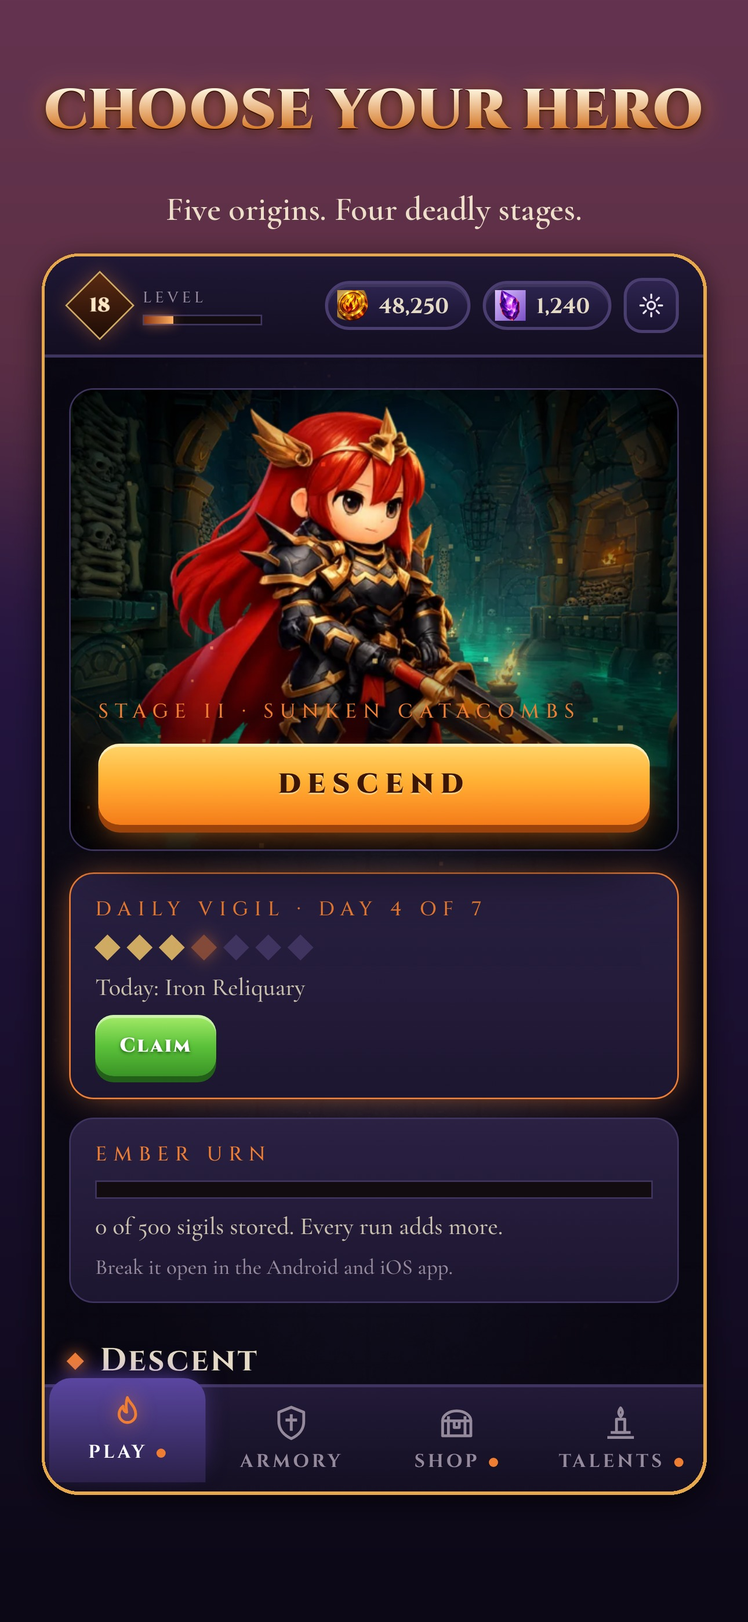
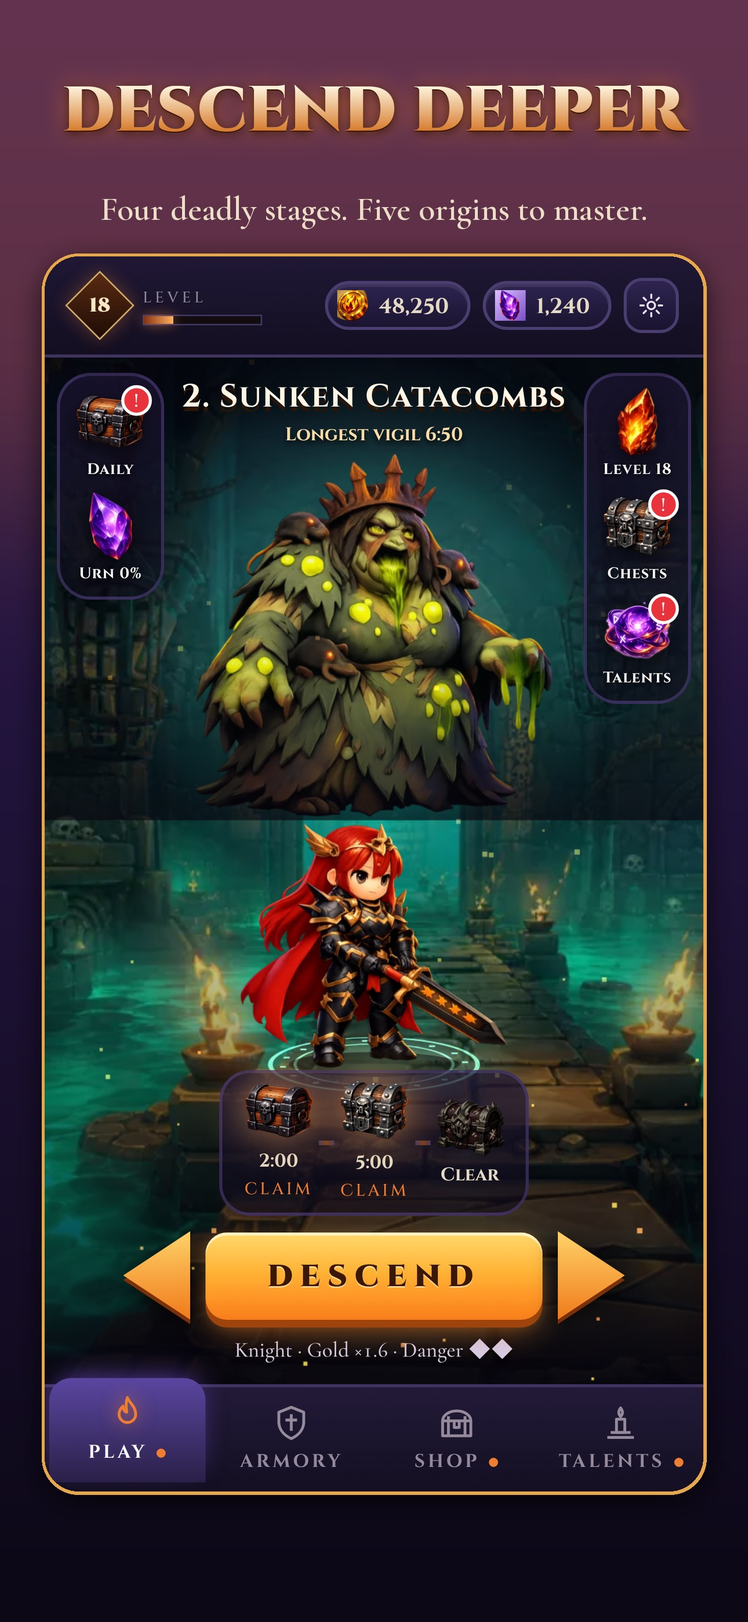
Rebuild the Play tab as a stage scene and move origins to the Armory
Stage art with the stage boss looming over your origin, side shortcuts
(daily, urn, level, chests, talents), milestone chests, stage arrows and
a big Descend button. Origins are chosen in the Armory. Fixes old saves
being shown the new-player tutorial.

Claude-Session: https://claude.ai/code/session_01Y7EHTCx1VVqY7PxuTGtBVF

diff --git a/ashen-vigil/index.html b/ashen-vigil/index.html
@@ -434,6 +434,45 @@ h1,h2,h3{font-family:var(--display);font-weight:700;margin:0;text-wrap:balance}
 @keyframes coachPulse{50%{box-shadow:0 8px 28px -6px rgba(0,0,0,.7),0 0 30px -2px rgba(255,180,80,.9)}}
 @media (max-width:560px){.coach{top:auto;bottom:calc(env(safe-area-inset-bottom,0px) + 190px);font-size:15px}}
 
+/* ---- play screen ---- */
+.hub-body.fullplay{padding:0;overflow:hidden}
+#tab-play.fight{position:relative;display:block;height:100%;min-height:500px;overflow:hidden}
+.fight #heroCv{position:absolute;inset:0;width:100%;height:100%;display:block}
+.fight-top{position:absolute;top:16px;left:0;right:0;text-align:center;pointer-events:none;padding-inline:90px}
+.fight-top h2{font-size:clamp(22px,4.6vw,36px);letter-spacing:.03em;color:#fff6e6;text-shadow:0 3px 0 #2a1406,0 0 20px rgba(0,0,0,.9)}
+.fight-top p{margin:2px 0 0;font-family:var(--display);font-weight:700;font-size:14px;color:#ffdca8;text-shadow:0 2px 4px #000}
+.side{position:absolute;top:16px;display:flex;flex-direction:column;gap:10px;padding:10px 6px;border-radius:22px;background:linear-gradient(180deg,rgba(30,22,52,.72),rgba(14,10,24,.55));border:2px solid rgba(90,70,140,.5)}
+.side.left{left:12px}.side.right{right:12px}
+.sbtn{position:relative;width:66px;display:flex;flex-direction:column;align-items:center;gap:2px;background:none;border:0;color:#fff;cursor:pointer;font-family:var(--display);font-weight:700;font-size:11px;letter-spacing:.04em;text-shadow:0 1px 3px #000;padding:0}
+.sbtn img{width:52px;height:52px;object-fit:contain;filter:drop-shadow(0 4px 6px rgba(0,0,0,.6));transition:transform .15s}
+.sbtn:hover img,.sbtn:focus-visible img{transform:scale(1.1)}
+.sbtn:focus-visible{outline:none}
+.sbtn .badge{position:absolute;top:-2px;right:2px;min-width:20px;height:20px;padding:0 4px;box-sizing:border-box;border-radius:10px;background:#e8323c;color:#fff;font-family:var(--body);font-weight:700;font-size:13px;display:grid;place-items:center;border:2px solid #fff;text-shadow:none}
+.fight-bottom{position:absolute;left:0;right:0;bottom:14px;display:flex;flex-direction:column;align-items:center;gap:10px;padding-inline:12px}
+.fight-bottom .startrow{display:flex;align-items:center;gap:16px}
+.fight #heroBegin{font-size:22px;padding:16px 60px;flex:none}
+.fight #heroBegin:disabled{background:linear-gradient(180deg,#6a6278,#3a3448);box-shadow:0 5px 0 #24202e;color:#cfc8dc;animation:none;cursor:not-allowed}
+.arrow{width:44px;height:58px;border:0;background:none;cursor:pointer;padding:0;filter:drop-shadow(0 3px 0 #7a3008) drop-shadow(0 4px 8px rgba(0,0,0,.6))}
+.arrow::before{content:"";display:block;width:100%;height:100%;background:linear-gradient(180deg,#ffd36a,#f07a1a);clip-path:polygon(100% 0,0 50%,100% 100%)}
+.arrow.next::before{clip-path:polygon(0 0,100% 50%,0 100%)}
+.arrow:disabled{opacity:.25;cursor:default}
+.arrow:focus-visible{outline:2px solid #ffc04a;outline-offset:4px}
+.fight .record{color:#d6cce8;text-shadow:0 1px 3px #000;font-size:14px}
+.fight .miles{width:min(440px,100%);padding:6px 14px;border-radius:20px;background:linear-gradient(180deg,rgba(30,22,52,.75),rgba(14,10,24,.65));border:2px solid rgba(90,70,140,.5);box-sizing:border-box}
+.fight .mile img{width:58px}
+.fight .mile b{font-size:13px}
+.fight .mile span{font-size:11px}
+.ddays{display:grid;grid-template-columns:repeat(7,minmax(0,1fr));gap:8px}
+.dday{display:flex;flex-direction:column;gap:4px;padding:10px 8px;border-radius:14px;background:linear-gradient(180deg,#2a2143,#1d1630);border:2px solid #3f3460;text-align:center;font-size:14px;min-width:0}
+.dday span{font-family:var(--display);font-size:11px;letter-spacing:.12em;text-transform:uppercase;color:var(--ash)}
+.dday b{font-weight:600;line-height:1.2}
+.dday.got{opacity:.5}
+.dday.got span::after{content:" \2713";color:#8ae05a}
+.dday.now{border-color:#ffc04a;box-shadow:0 0 18px -4px rgba(255,180,80,.8)}
+.cls .chosen{align-self:flex-start;font-family:var(--display);font-size:11px;letter-spacing:.16em;text-transform:uppercase;color:#ffc04a}
+@media (max-width:760px){.ddays{grid-template-columns:repeat(4,minmax(0,1fr))}}
+@media (max-width:560px){.fight-top{padding-inline:84px;top:12px}.fight-top h2{font-size:21px}.fight-top p{font-size:12px}.side{top:10px;gap:8px;padding:8px 4px}.side.left{left:8px}.side.right{right:8px}.sbtn{width:58px;font-size:10px}.sbtn img{width:44px;height:44px}.fight #heroBegin{padding:15px 40px;font-size:20px}.fight-bottom .startrow{gap:10px}.fight .mile img{width:44px}.fight .mile b{font-size:12px}.fight .miles{padding:4px 10px}.ddays{grid-template-columns:repeat(2,minmax(0,1fr))}}
+
 @media (max-width:820px){.slots{grid-template-columns:repeat(2,minmax(0,1fr))}.chests{grid-template-columns:1fr}.chestcard{flex-direction:row;flex-wrap:wrap;text-align:left;align-items:center}.chestcard>.ctext{flex:1;min-width:160px}.chestcard .odds{justify-content:flex-start}.brand{letter-spacing:.08em}}
 @media (max-width:400px){.coin{font-size:13px;padding:4px 7px}.brand{font-size:15px}}
 
@@ -478,29 +517,23 @@ h1,h2,h3{font-family:var(--display);font-weight:700;margin:0;text-wrap:balance}
       </div>
     </header>
     <main class="hub-body">
-      <section id="tab-play" class="tab">
-        <div class="hero"><canvas id="heroCv" aria-label="Your origin keeping vigil by the flame"></canvas><div class="hero-cap"><div class="hero-txt"><div class="eyebrow" id="heroStage"></div><p class="tagline">The last flame gutters below the cathedral. Hold it against the hollowed dead until the third bell tolls.</p></div><button id="heroBegin" class="btn">Descend</button></div></div>
-        <div id="bounties" class="bounties"></div>
-        <div class="sect-h"><h2>Descent</h2><span class="muted">Deeper stages are deadlier and pay more gold.</span></div>
-        <div id="stages" class="stages"></div>
-        <div id="stageMiles"></div>
-        <div class="sect-h"><h2>Origin</h2><span class="muted">Unlock more origins with gold.</span></div>
-        <div id="classes" class="classes"></div>
-        <div class="descend"><button id="beginBtn" class="btn">Descend</button><div id="record" class="record"></div></div>
-        <details class="howto"><summary>Controls</summary>
-          <div class="controls">
-            <span><kbd>WASD</kbd> / <kbd>Arrows</kbd></span><span>Move. Your armaments strike on their own.</span>
-            <span><kbd>Space</kbd> / <kbd>Shift</kbd></span><span>Roll through danger. Costs stamina.</span>
-            <span><kbd>Q</kbd> / <kbd>E</kbd></span><span>Drink a tonic flask. Candle shrines refill them.</span>
-            <span><kbd>Esc</kbd> · <kbd>M</kbd></span><span>Pause · Sound</span>
-            <span>Touch</span><span>Drag anywhere to move. Buttons roll and drink.</span>
-          </div>
-        </details>
+      <section id="tab-play" class="tab fight">
+        <canvas id="heroCv" aria-label="Your origin before the stage boss"></canvas>
+        <div class="fight-top"><h2 id="stageTitle"></h2><p id="stageBest"></p></div>
+        <div class="side left" id="sideL"></div>
+        <div class="side right" id="sideR"></div>
+        <div class="fight-bottom">
+          <div id="stageMiles"></div>
+          <div class="startrow"><button class="arrow prev" id="stPrev" aria-label="Previous stage"></button><button id="heroBegin" class="btn">Descend</button><button class="arrow next" id="stNext" aria-label="Next stage"></button></div>
+          <div id="record" class="record"></div>
+        </div>
       </section>
       <section id="tab-armory" class="tab" hidden>
         <div class="sect-h"><h2>Equipped</h2><span class="muted">Gear applies to every origin.</span></div>
         <div class="doll"><div class="doll-col" id="dollL"></div><div class="doll-mid"><img id="dollImg" alt="Your origin"><div class="doll-name" id="dollName"></div></div><div class="doll-col" id="dollR"></div></div>
         <div id="dollStats" class="dstats"></div>
+        <div class="sect-h"><h2>Origins</h2><span class="muted">Choose who keeps the vigil. Unlock more with gold.</span></div>
+        <div id="classes" class="classes"></div>
         <div class="sect-h"><h2>Armory <span id="invCount" class="muted"></span></h2><div class="row"><button id="mergeBtn" class="btn ghost">Merge gear</button><button id="salvageCommons" class="btn ghost">Salvage spare commons</button></div></div>
         <div id="inv" class="inv"></div>
       </section>
@@ -2566,7 +2599,7 @@ function heroStart() {
   const loop = now => { if ($('hub').hidden || hubTab !== 'play' || document.hidden) { hero.raf = 0; return; } drawHero(now / 1000); hero.raf = requestAnimationFrame(loop); };
   hero.raf = requestAnimationFrame(loop);
 }
-function drawHero(t) {
+function drawHeroVector(t) {
   const cv = $('heroCv'); if (!cv) return;
   const k = Math.min(2, window.devicePixelRatio || 1), w = cv.clientWidth, h = cv.clientHeight; if (!w || !h) return;
   if (cv.width !== Math.round(w * k) || cv.height !== Math.round(h * k)) { cv.width = Math.round(w * k); cv.height = Math.round(h * k); }
@@ -2653,7 +2686,7 @@ function migrateSave() {
   SAVE.claims = Object.assign({ wood: 0, iron: 0, ember: 0 }, SAVE.claims || {});
   SAVE.pity = Object.assign({ wood: 0, iron: 0, ember: 0, emberL: 0 }, SAVE.pity || {});
   SAVE.daily = Object.assign({ last: '', n: 0 }, SAVE.daily || {});
-  if (!SAVE.tut) SAVE.tut = SAVE.runs > 2 ? { move: 1, embers: 1, roll: 1, flask: 1, shrine: 1, boss: 1, boon: 1, hub: 1 } : {};
+  if (!SAVE.tut || (!Object.keys(SAVE.tut).length && SAVE.runs > 2)) SAVE.tut = SAVE.runs > 2 ? { move: 1, embers: 1, roll: 1, flask: 1, shrine: 1, boss: 1, boon: 1, hub: 1 } : {};
   SAVE.miles = SAVE.miles || {}; SAVE.talM = SAVE.talM || [false, false, false, false]; SAVE.tal = SAVE.tal || 0; SAVE.urn = SAVE.urn || 0;
   if (SAVE.ironClaims) { SAVE.claims.iron += SAVE.ironClaims; SAVE.ironClaims = 0; }
   if (!SAVE.migrated2) {
@@ -2762,6 +2795,7 @@ function slotCard(s) { const it = itemById(SAVE.equipped[s]); return it ? itemCa
 function renderArmory() {
   $('dollL').innerHTML = slotCard('helm') + slotCard('armor');
   $('dollR').innerHTML = slotCard('ring') + slotCard('charm');
+  renderOrigins();
   $('dollImg').src = bigPortrait(SAVE.cls); $('dollName').textContent = CLASSES[SAVE.cls].name;
   const m = metaMods(), c = CLASSES[SAVE.cls];
   const stats = [['Health', Math.round(c.hp + m.hp)], ['Damage', '+' + Math.round((c.might * (1 + m.might) - 1) * 100) + '%'], ['Armor', c.armor + m.armor],
@@ -2853,33 +2887,6 @@ function openTalent(kind, i) {
 }
 
 /* play tab: daily vigil, ember urn, stage rewards */
-function renderBounties() {
-  const ready = dailyReady(), shown = ready ? SAVE.daily.n % 7 : (SAVE.daily.n - 1 + 7) % 7;
-  const pips = DAILY.map((d, k) => `<i class="${k < shown || (k === shown && !ready) ? 'got' : k === shown ? 'now' : ''}" title="Day ${k + 1}: ${rewardLine(d)}"></i>`).join('');
-  const pr = Platform.prices[URN.sku];
-  $('bounties').innerHTML = `<div class="bcard${ready ? ' hot' : ''}"><div class="eyebrow">Daily vigil · Day ${shown + 1} of 7</div><div class="dpips">${pips}</div>
-      <p>${ready ? 'Today: ' + rewardLine(DAILY[shown]) : 'Claimed. Tomorrow: ' + rewardLine(DAILY[(shown + 1) % 7]) + '.'}</p>${ready ? '<button class="buy" id="dailyBtn">Claim</button>' : ''}</div>
-    <div class="bcard"><div class="eyebrow">Ember urn</div><div class="urnbar"><i style="width:${Math.min(100, SAVE.urn / URN.cap * 100)}%"></i></div>
-      <p>${fmtNum(SAVE.urn)} of ${URN.cap} sigils stored. Every run adds more.</p>
-      ${Platform.canBuy() && pr ? `<button class="buy" id="urnBtn" ${SAVE.urn ? '' : 'disabled'}>Break it open · ${pr.priceString}</button>` : '<span class="muted" style="font-size:14px">Break it open in the Android and iOS app.</span>'}</div>`;
-  const db = $('dailyBtn');
-  if (db) db.onclick = () => { if (!dailyReady()) return; const r = DAILY[SAVE.daily.n % 7]; giveReward(r); SAVE.daily.n++; SAVE.daily.last = todayKey(); persist(); renderHub(); SND.init(); SND.chest(); toast('Claimed ' + rewardLine(r) + '.'); };
-  const ub = $('urnBtn');
-  if (ub) ub.onclick = async () => { ub.disabled = true; try { await Platform.purchase(URN.sku); const n = SAVE.urn; SAVE.sigils += n; SAVE.urn = 0; persist(); renderHub(); toast(fmtNum(n) + ' sigils added.'); } catch (e) { toast(e && e.userCancelled ? 'Purchase cancelled.' : 'Purchase not completed.'); ub.disabled = false; } };
-}
-function renderStageMiles() {
-  const i = SAVE.stage, st = STAGES[i], S = milesState(i);
-  $('stageMiles').innerHTML = `<div class="sect-h"><h2>Stage rewards</h2><span class="muted">${st.name}: survive or clear it to earn these chests.</span></div>
-    <div class="miles">${S.map((s, k) => `<button class="mile ${s.claimed ? 'claimed' : s.reached ? 'ready' : 'locked'}" data-k="${k}"><img src="${chestArt(s.m.art, s.claimed)}" alt=""><b>${s.m.label}</b><span>${s.claimed ? 'Claimed' : s.reached ? 'Claim' : rewardLine(s.m.give(st))}</span></button>`).join('<i class="mline"></i>')}</div>`;
-  $('stageMiles').querySelectorAll('.mile').forEach(b => b.onclick = () => {
-    const k = +b.dataset.k, s = milesState(i)[k];
-    if (s.claimed) return;
-    if (!s.reached) { toast(s.m.t === 'clear' ? 'Defeat the third boss of ' + st.name + ' to earn this.' : 'Survive ' + s.m.label + ' in ' + st.name + ' to earn this.'); return; }
-    const r = s.m.give(st); SAVE.miles[st.id] = SAVE.miles[st.id] || [false, false, false]; SAVE.miles[st.id][k] = true;
-    giveReward(r); persist(); renderHub(); SND.init(); SND.chest(); toast('Claimed ' + rewardLine(r) + '.');
-  });
-}
-
 /* ---------------- First-run tutorial ---------------- */
 const TUTS = { moved: 0, rolled: false, drank: false, cur: null, shown: 0 };
 const TUT_STEPS = [
@@ -2940,39 +2947,127 @@ function renderHub() {
     b.innerHTML = TAB_ICONS[b.dataset.tab] + '<span>' + TAB_LABELS[b.dataset.tab] + (tabDot(b.dataset.tab) ? '<span class="dot" aria-label="Something to claim"></span>' : '') + '</span>';
   });
   for (const t of ['play', 'armory', 'shop', 'altar']) $('tab-' + t).hidden = t !== hubTab;
+  $('hub').querySelector('.hub-body').classList.toggle('fullplay', hubTab === 'play');
   ({ play: renderPlay, armory: renderArmory, shop: renderShop, altar: renderAltar })[hubTab]();
 }
 document.querySelectorAll('.tabbar button').forEach(b => b.addEventListener('click', () => { hubTab = b.dataset.tab; renderHub(); $('hub').querySelector('.hub-body').scrollTop = 0; }));
 
+/* ---------------- Play screen: stage scene ---------------- */
+let viewStage = null;
+const STAGE_BOSS = ['gaoler', 'mother', 'warden', 'warden'];
+function drawHero(t) {
+  const cv = $('heroCv'); if (!cv) return;
+  const vi = viewStage == null ? SAVE.stage : viewStage, st = STAGES[vi];
+  const bgI = IMG['stage_' + st.id], hsI = IMG['hero_' + SAVE.cls], bsI = IMG['boss_' + STAGE_BOSS[vi]];
+  if (!bgI || !hsI) return drawHeroVector(t);
+  const k = Math.min(2, window.devicePixelRatio || 1), w = cv.clientWidth, h = cv.clientHeight; if (!w || !h) return;
+  if (cv.width !== Math.round(w * k) || cv.height !== Math.round(h * k)) { cv.width = Math.round(w * k); cv.height = Math.round(h * k); }
+  const c = cv.getContext('2d'); c.setTransform(k, 0, 0, k, 0, 0);
+  const locked = vi >= SAVE.unlocked, gc = st.glow;
+  const sc = Math.max(w / bgI.width, h / bgI.height) * 1.06, drift = Math.sin(t * 0.12) * w * 0.02;
+  c.drawImage(bgI, (w - bgI.width * sc) / 2 + drift, (h - bgI.height * sc) * 0.35, bgI.width * sc, bgI.height * sc);
+  const shade = c.createLinearGradient(0, 0, 0, h);
+  shade.addColorStop(0, 'rgba(8,5,14,0.7)'); shade.addColorStop(0.25, 'rgba(8,5,14,0.2)'); shade.addColorStop(0.6, 'rgba(8,5,14,0.25)'); shade.addColorStop(1, 'rgba(8,5,14,0.92)');
+  c.fillStyle = shade; c.fillRect(0, 0, w, h);
+  const cx = w / 2, unit = Math.min(h, w * 1.25);
+  if (bsI) {
+    const bh = unit * 0.44, bw = bsI.width / bsI.height * bh, by = h * 0.1 + Math.sin(t * 0.8) * 4;
+    c.globalCompositeOperation = 'lighter'; glowAt(c, cx, by + bh * 0.45, bh * 0.75, gc, 0.35); c.globalCompositeOperation = 'source-over';
+    c.save(); c.globalAlpha = locked ? 0.35 : 0.95; c.drawImage(bsI, cx - bw / 2, by, bw, bh); c.restore();
+    const fade = c.createLinearGradient(0, by + bh * 0.55, 0, by + bh); fade.addColorStop(0, 'rgba(8,5,14,0)'); fade.addColorStop(1, 'rgba(8,5,14,0.65)');
+    c.fillStyle = fade; c.fillRect(cx - bw, by + bh * 0.55, bw * 2, bh * 0.46);
+  }
+  const pm = $('stageMiles'), panelTop = pm ? pm.getBoundingClientRect().top - cv.getBoundingClientRect().top : h * 0.75;
+  const fy = Math.min(h * 0.71, panelTop - 4), hh = Math.min(unit * 0.3, fy * 0.42), hw = hsI.width / hsI.height * hh;
+  c.save(); c.translate(cx, fy); c.scale(1, 0.26);
+  c.globalCompositeOperation = 'lighter';
+  const ring = c.createRadialGradient(0, 0, 0, 0, 0, hh * 0.6); ring.addColorStop(0, `rgba(${gc},0.45)`); ring.addColorStop(1, `rgba(${gc},0)`);
+  c.fillStyle = ring; c.beginPath(); c.arc(0, 0, hh * 0.6, 0, TAU); c.fill();
+  c.strokeStyle = `rgba(${gc},0.85)`; c.lineWidth = 3; c.beginPath(); c.arc(0, 0, hh * 0.42, 0, TAU); c.stroke();
+  c.lineWidth = 2; c.beginPath(); c.arc(0, 0, hh * 0.32, 0, TAU); c.stroke();
+  for (let i = 0; i < 16; i++) { const a = i / 16 * TAU + t * 0.4; c.fillStyle = `rgba(${gc},0.9)`; c.fillRect(Math.cos(a) * hh * 0.37 - 2, Math.sin(a) * hh * 0.37 - 2, 4, 4); }
+  c.restore();
+  c.fillStyle = 'rgba(0,0,0,0.5)'; c.beginPath(); c.ellipse(cx, fy, hw * 0.32, hh * 0.05, 0, 0, TAU); c.fill();
+  c.save(); c.translate(cx, fy + 2); c.scale(1, 1 + Math.sin(t * 2) * 0.01); c.drawImage(hsI, -hw / 2, -hh, hw, hh); c.restore();
+  c.globalCompositeOperation = 'lighter';
+  for (let i = 0; i < 60; i++) { const life = (t * (0.1 + hash(i, 2) * 0.2) + hash(i, 1)) % 1, ex = hash(i, 3) * w + Math.sin(t + i) * 14, ey = h - life * h * 1.1;
+    c.fillStyle = `rgba(255,${150 + Math.floor(hash(i, 4) * 80)},80,${(1 - life) * 0.85})`; const sz = 1.4 + hash(i, 5) * 2.2; c.fillRect(ex, ey, sz, sz); }
+  c.globalCompositeOperation = 'source-over';
+  if (locked) { c.fillStyle = 'rgba(12,9,20,0.55)'; c.fillRect(0, 0, w, h); }
+}
+function sideSrc(n) { if (IMG[n]) return assetUrl(n); if (n.startsWith('chest_')) return chestArt(n.split('_')[1], false); return portrait(SAVE.cls); }
+function sideBtn(id, img, label, badge) {
+  return `<button class="sbtn" id="${id}"><img src="${sideSrc(img)}" alt="">${badge ? `<span class="badge">${badge === true ? '!' : badge}</span>` : ''}<span>${label}</span></button>`;
+}
+function renderSide() {
+  const freeReady = Date.now() >= SAVE.freeChestAt, claims = claimsCount();
+  $('sideL').innerHTML = sideBtn('sbDaily', 'chest_wood_0', 'Daily', dailyReady()) + sideBtn('sbUrn', 'cur_sigil', 'Urn ' + Math.round(SAVE.urn / URN.cap * 100) + '%', SAVE.urn >= URN.cap);
+  $('sideR').innerHTML = sideBtn('sbPath', 'cur_ember', 'Level ' + SAVE.plv, false) + sideBtn('sbFree', 'chest_iron_0', 'Chests', claims ? claims : freeReady) + sideBtn('sbTal', 'icon_p_attunement', 'Talents', talAvailable() != null);
+  $('sbDaily').onclick = openDaily; $('sbUrn').onclick = openUrn; $('sbPath').onclick = openPath;
+  $('sbFree').onclick = () => { hubTab = 'shop'; renderHub(); };
+  $('sbTal').onclick = () => { hubTab = 'altar'; renderHub(); };
+}
 function renderPlay() {
   if (!SAVE.origins.includes(SAVE.cls)) SAVE.cls = 'knight';
   if (SAVE.stage >= SAVE.unlocked) SAVE.stage = 0;
-  $('stages').innerHTML = STAGES.map((s, i) => {
-    const locked = i >= SAVE.unlocked, best = SAVE.best[s.id];
-    return `<button class="stage${locked ? ' locked' : ''}" data-i="${i}" aria-pressed="${i === SAVE.stage}" style="--hue:${s.hue}">
-      <img class="thumb" src="${stageThumb(i)}" alt=""><span class="sbody"><span class="eyebrow">Stage ${ROMAN[i]}${SAVE.cleared[s.id] ? ' · Cleared' : ''}</span><h3>${s.name}</h3><p>${s.sub}</p>
-      <span class="pips" aria-label="Danger ${i + 1} of 4">${'<i></i>'.repeat(i + 1)}${'<i class="off"></i>'.repeat(3 - i)}</span>
-      <span class="meta">${locked ? 'Clear ' + STAGES[i - 1].name + ' to unlock' : (best ? 'Longest vigil ' + fmtTime(best) : 'Not yet attempted') + ' · Gold ×' + s.gold}</span></span></button>`;
-  }).join('');
-  $('stages').querySelectorAll('.stage').forEach(b => b.addEventListener('click', () => {
-    const i = +b.dataset.i; if (i >= SAVE.unlocked) { toast('Clear ' + STAGES[i - 1].name + ' first.'); return; }
-    SAVE.stage = i; persist(); renderPlay();
-  }));
+  if (viewStage == null || viewStage >= STAGES.length) viewStage = SAVE.stage;
+  const st = STAGES[viewStage], locked = viewStage >= SAVE.unlocked, best = SAVE.best[st.id];
+  $('stageTitle').textContent = (viewStage + 1) + '. ' + st.name;
+  $('stageBest').textContent = locked ? 'Clear ' + STAGES[viewStage - 1].name + ' to unlock' : (best ? 'Longest vigil ' + fmtTime(best) : 'Not yet attempted') + (SAVE.cleared[st.id] ? ' · Cleared' : '');
+  $('stPrev').disabled = viewStage <= 0; $('stNext').disabled = viewStage >= STAGES.length - 1;
+  const hb = $('heroBegin'); hb.disabled = locked; hb.textContent = locked ? 'Locked' : 'Descend';
+  $('record').textContent = CLASSES[SAVE.cls].name + ' · Gold ×' + st.gold + ' · Danger ' + '◆'.repeat(viewStage + 1);
+  if (!locked && SAVE.stage !== viewStage) { SAVE.stage = viewStage; persist(); }
+  renderSide(); renderStageMiles(); heroStart();
+}
+$('stPrev').addEventListener('click', () => { if (viewStage > 0) { viewStage--; renderPlay(); } });
+$('stNext').addEventListener('click', () => { if (viewStage < STAGES.length - 1) { viewStage++; renderPlay(); } });
+function renderStageMiles() {
+  const i = viewStage == null ? SAVE.stage : viewStage, st = STAGES[i], S = milesState(i);
+  $('stageMiles').innerHTML = `<div class="miles">${S.map((s, k) => `<button class="mile ${s.claimed ? 'claimed' : s.reached ? 'ready' : 'locked'}" data-k="${k}" title="${rewardLine(s.m.give(st))}"><img src="${chestArt(s.m.art, s.claimed)}" alt=""><b>${s.m.label}</b>${s.reached && !s.claimed ? '<span>Claim</span>' : ''}</button>`).join('<i class="mline"></i>')}</div>`;
+  $('stageMiles').querySelectorAll('.mile').forEach(b => b.onclick = () => {
+    const k = +b.dataset.k, s = milesState(i)[k];
+    if (s.claimed) { toast('Already claimed.'); return; }
+    if (!s.reached) { toast((s.m.t === 'clear' ? 'Defeat the third boss of ' + st.name : 'Survive ' + s.m.label + ' in ' + st.name) + ' to earn ' + rewardLine(s.m.give(st)) + '.'); return; }
+    const r = s.m.give(st); SAVE.miles[st.id] = SAVE.miles[st.id] || [false, false, false]; SAVE.miles[st.id][k] = true;
+    giveReward(r); persist(); renderHub(); SND.init(); SND.chest(); toast('Claimed ' + rewardLine(r) + '.');
+  });
+}
+function openDaily() {
+  const ready = dailyReady(), shown = ready ? SAVE.daily.n % 7 : (SAVE.daily.n - 1 + 7) % 7;
+  const days = DAILY.map((d, k) => `<div class="dday ${k < shown || (k === shown && !ready) ? 'got' : k === shown ? 'now' : ''}"><span>Day ${k + 1}</span><b>${rewardLine(d)}</b></div>`).join('');
+  openModal(`<div class="eyebrow">Daily vigil</div><h2>Day ${shown + 1} of 7</h2><div class="ddays">${days}</div>
+    <p class="muted">Claim once a day. Missing a day never resets your progress.</p>
+    <div class="row">${ready ? '<button class="buy" id="dailyBtn">Claim ' + rewardLine(DAILY[shown]) + '</button>' : ''}<button class="btn ghost" id="mClose">Close</button></div>`, m => {
+    m.querySelector('#mClose').onclick = closeModal;
+    const b = m.querySelector('#dailyBtn');
+    if (b) b.onclick = () => { if (!dailyReady()) return; const r = DAILY[SAVE.daily.n % 7]; giveReward(r); SAVE.daily.n++; SAVE.daily.last = todayKey(); persist(); closeModal(); renderHub(); SND.init(); SND.chest(); toast('Claimed ' + rewardLine(r) + '.'); };
+  }, true);
+}
+function openUrn() {
+  const pr = Platform.prices[URN.sku], can = Platform.canBuy() && pr;
+  openModal(`<div class="eyebrow">Ember urn</div><h2>${fmtNum(SAVE.urn)} of ${URN.cap} sigils</h2>
+    <div class="urnbar"><i style="width:${Math.min(100, SAVE.urn / URN.cap * 100)}%"></i></div>
+    <p class="muted">Every run pours sigils into the urn: some for kills, more for bosses and victories. Break it open to claim them all at once.</p>
+    <div class="row">${can ? `<button class="buy" id="urnBtn" ${SAVE.urn ? '' : 'disabled'}>Break it open · ${pr.priceString}</button>` : '<span class="note" style="font-size:15px">Break it open in the Android and iOS app.</span>'}<button class="btn ghost" id="mClose">Close</button></div>`, m => {
+    m.querySelector('#mClose').onclick = closeModal;
+    const ub = m.querySelector('#urnBtn');
+    if (ub) ub.onclick = async () => { ub.disabled = true; try { await Platform.purchase(URN.sku); const n = SAVE.urn; SAVE.sigils += n; SAVE.urn = 0; persist(); closeModal(); renderHub(); toast(fmtNum(n) + ' sigils added.'); } catch (e) { toast(e && e.userCancelled ? 'Purchase cancelled.' : 'Purchase not completed.'); ub.disabled = false; } };
+  });
+}
+function renderOrigins() {
   $('classes').innerHTML = Object.entries(CLASSES).map(([id, c]) => {
     const owned = SAVE.origins.includes(id);
     return `<button class="cls${owned ? '' : ' locked'}" data-id="${id}" aria-pressed="${id === SAVE.cls}">
-      <img class="portrait" src="${portrait(id)}" alt=""><h3>${c.name}</h3><span class="start">${WEAPONS[c.start].name}</span><p>${c.blurb}</p>${owned ? '' : `<span class="price coin gold">${fmtNum(ORIGIN_COST[id])}</span>`}</button>`;
+      <img class="portrait" src="${portrait(id)}" alt=""><h3>${c.name}</h3><span class="start">${WEAPONS[c.start].name}</span><p>${c.blurb}</p>${owned ? (id === SAVE.cls ? '<span class="chosen">Selected</span>' : '') : `<span class="price coin gold">${fmtNum(ORIGIN_COST[id])}</span>`}</button>`;
   }).join('');
   $('classes').querySelectorAll('.cls').forEach(b => b.addEventListener('click', () => {
     const id = b.dataset.id, c = CLASSES[id];
-    if (SAVE.origins.includes(id)) { SAVE.cls = id; persist(); renderPlay(); return; }
+    if (SAVE.origins.includes(id)) { SAVE.cls = id; persist(); renderHub(); return; }
     confirmBuy('Unlock the ' + c.name, c.blurb + ' Starts with ' + WEAPONS[c.start].name + '.', { gold: ORIGIN_COST[id] }, () => { SAVE.origins.push(id); SAVE.cls = id; toast(c.name + ' unlocked.'); });
   }));
-  $('beginBtn').textContent = 'Descend';
-  $('heroStage').textContent = 'Stage ' + ROMAN[SAVE.stage] + ' \u00b7 ' + STAGES[SAVE.stage].name;
-  heroStart(); renderBounties(); renderStageMiles();
-  $('record').textContent = STAGES[SAVE.stage].name + ' · ' + CLASSES[SAVE.cls].name + (SAVE.runs ? ' · ' + SAVE.runs + ' vigils so far' : '');
 }
+
 function confirmBuy(title, text, cost, onOk) {
   const ok = canAfford(cost);
   openModal(`<h2>${title}</h2><p class="muted">${text}</p>
@@ -3072,6 +3167,7 @@ function openSettings(confirmErase) {
     <div class="seg" role="group" aria-label="Camera zoom">${[['near', 'Close'], ['normal', 'Normal'], ['far', 'Far']].map(([k, l]) => `<button data-z="${k}" aria-pressed="${z === k}">${l}</button>`).join('')}</div>
     <div class="eyebrow">Sound</div>
     <div class="seg two" role="group" aria-label="Sound"><button data-s="on" aria-pressed="${!SND.muted}">On</button><button data-s="off" aria-pressed="${SND.muted}">Off</button></div>
+    <div class="eyebrow">Controls</div><p class="muted" style="margin:0;font-size:15px">Move with WASD, the arrow keys or by dragging. Roll with Space or Shift. Drink a flask with Q or E. Pause with Esc, toggle sound with M.</p>
     ${confirmErase ? `<p class="muted">This erases all gold, sigils, gear, upgrades and unlocks on this device. It cannot be undone.</p>
       <div class="row"><button class="btn ghost danger" id="mErase2">Erase everything</button><button class="btn ghost" id="mKeep">Keep my progress</button></div>`
       : `<div class="row"><button class="btn" id="mClose" style="padding:12px 24px;font-size:14px">Done</button><button class="btn ghost danger" id="mErase">Erase progress</button></div>`}`, m => {
@@ -3372,7 +3468,6 @@ $('flaskBtn').addEventListener('pointerdown', e => { e.preventDefault(); tryDrin
 $('pauseBtn').addEventListener('click', () => togglePause());
 $('muteBtn').textContent = SND.muted ? 'OFF' : 'SND';
 $('muteBtn').addEventListener('click', () => { SND.init(); SND.setMuted(!SND.muted); $('muteBtn').textContent = SND.muted ? 'OFF' : 'SND'; });
-$('beginBtn').addEventListener('click', startRun);
 $('heroBegin').addEventListener('click', startRun);
 $('menuBtn').addEventListener('click', toTitle);
 $('againBtn').addEventListener('click', startRun);
